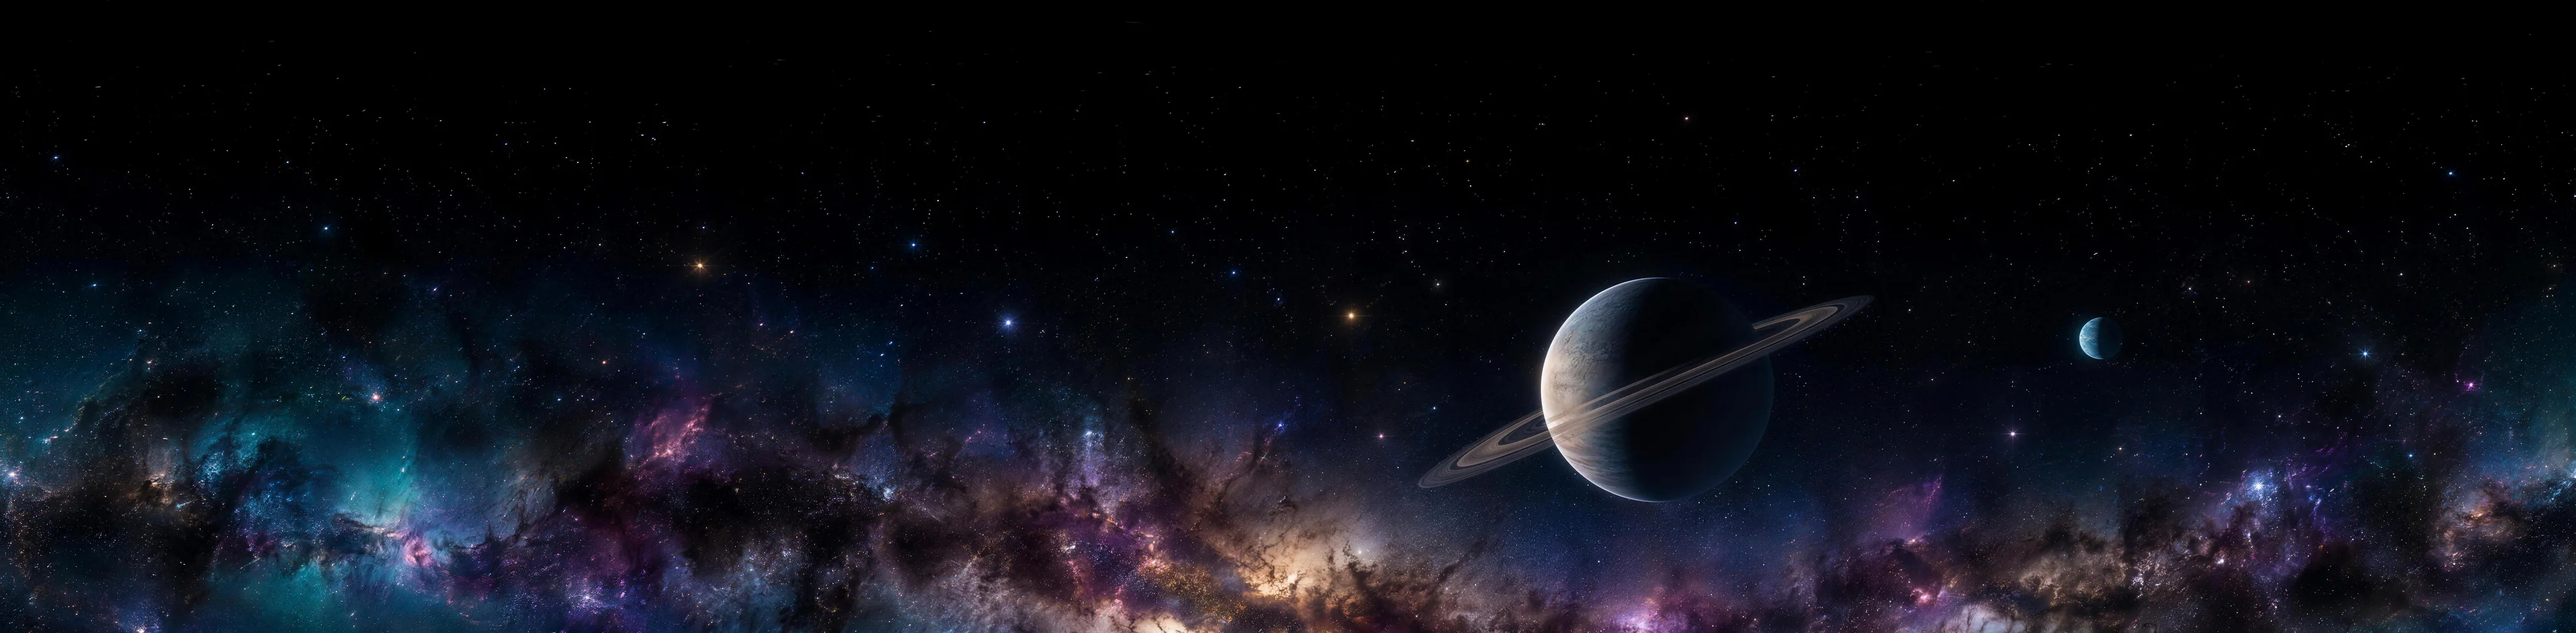
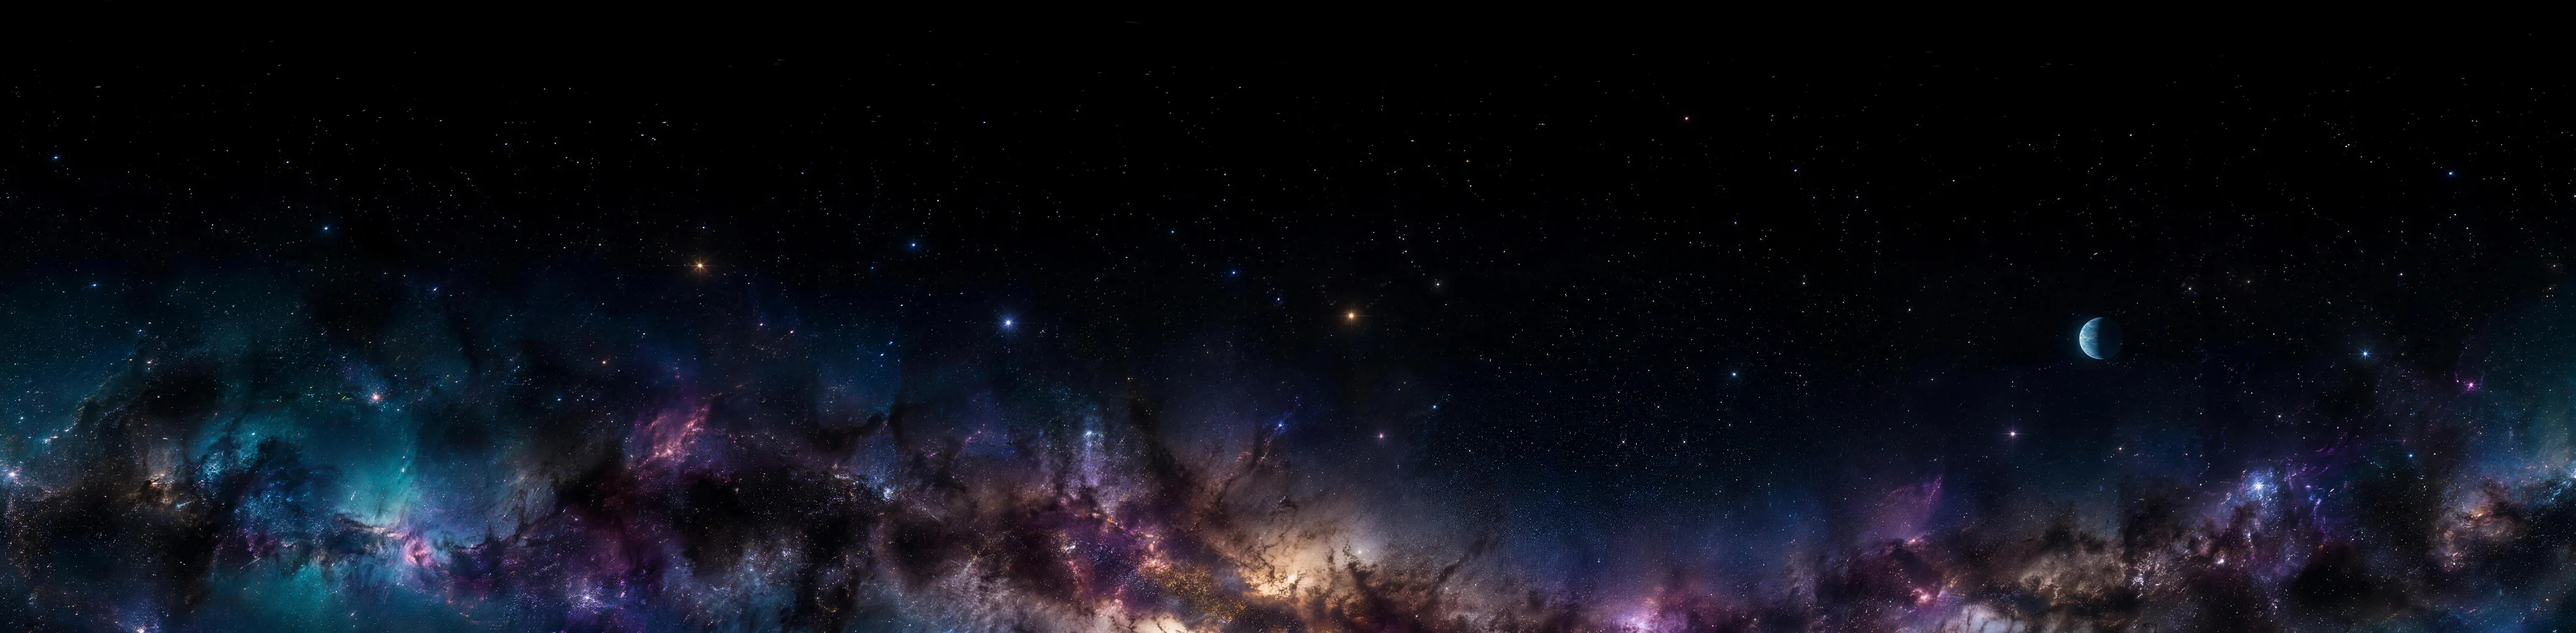
Road sky: the ringed planet is a real 3D body - a sphere of slowly turning cloud bands lit from one side with an atmosphere rim, its rings a flat disc that wraps behind it and takes its shadow - drifting a little against the stars as you travel; painted out of the panorama where it stood. Phones dra

Changed region(s): [[0.5312, 0.431, 0.75, 0.8004], [0.5625, 0.8004, 0.5938, 0.8312]]

diff --git a/src/components/adventure/sky-dome.tsx b/src/components/adventure/sky-dome.tsx
@@ -1,6 +1,6 @@
 "use client";
 
-import { useMemo, useRef } from "react";
+import { useEffect, useMemo, useRef } from "react";
 import { useFrame } from "@react-three/fiber";
 import * as THREE from "three";
 import { LOOK } from "./look";
@@ -285,7 +285,220 @@ export function SkyDome({
   });
   /* eslint-enable react-hooks/immutability */
   return (
-    // Drawn first and never in front of anything: the backdrop to it all.
-    <mesh ref={mesh} geometry={geo} material={material} renderOrder={-10} frustumCulled={false} />
+    // Drawn first and never in front of anything: the backdrop to it all
+    // - and, with the panorama, the planet standing in front of it.
+    <>
+      <mesh ref={mesh} geometry={geo} material={material} renderOrder={-10} frustumCulled={false} />
+      {!/\.[a-z]+$/i.test(image) && <GasGiant />}
+    </>
   );
 }
+
+// THE RINGED PLANET, as a body rather than a picture: a sphere of cloud
+// bands lit from one side - a soft day-and-night line, a thin bright
+// atmosphere round its rim - turning very slowly, and a flat disc of
+// rings round it, shadowed where the planet blocks the sun, hidden where
+// they pass behind it. It stands where the painted planet stood (painted
+// out of the panorama) and drifts a little against the stars as the
+// traveller moves - about a hundredth of the way - so it reads as a
+// thing out there in front of the sky, not part of it.
+const PLANET = {
+  // Where it is: bearing (0-1 round, the dome's u) and elevation (rad).
+  u: 0.2932,
+  elev: 0.466,
+  dist: 760,
+  // Its angular radius, as painted (radians).
+  ang: 0.286,
+  // How far the camera's travel carries it along (1 = fixed to the sky).
+  follow: 0.99,
+  // How far the rings tip across the view (rad, up to the right), and how
+  // far they are opened toward the viewer (rad; 0 is edge on).
+  tilt: 0.36,
+  open: 0.12,
+};
+
+const PLANET_VERT = /* glsl */ `
+  varying vec3 vN;
+  varying vec3 vW;
+  varying vec3 vLocal;
+  void main() {
+    vLocal = position;
+    vN = normalize(mat3(modelMatrix) * normal);
+    vec4 w = modelMatrix * vec4(position, 1.0);
+    vW = w.xyz;
+    gl_Position = projectionMatrix * viewMatrix * w;
+  }
+`;
+const PLANET_FRAG = /* glsl */ `
+  uniform vec3 uLight;
+  uniform float uTime;
+  uniform float uR;
+  varying vec3 vN;
+  varying vec3 vW;
+  varying vec3 vLocal;
+  float hash(vec2 p) { return fract(sin(dot(p, vec2(127.1, 311.7))) * 43758.5453); }
+  float noise(vec2 p) {
+    vec2 i = floor(p), f = fract(p);
+    vec2 u = f * f * (3.0 - 2.0 * f);
+    return mix(mix(hash(i), hash(i + vec2(1, 0)), u.x), mix(hash(i + vec2(0, 1)), hash(i + vec2(1, 1)), u.x), u.y);
+  }
+  float fbm(vec2 p) { float a = 0.5, s = 0.0; for (int i = 0; i < 5; i++) { s += a * noise(p); p *= 2.03; a *= 0.5; } return s; }
+  void main() {
+    vec3 n = normalize(vLocal);
+    float lat = n.y;
+    float lon = atan(n.x, n.z) + uTime * 0.004;
+    // Cloud bands, wavering where the bands shear past each other.
+    float warp = fbm(vec2(lon * 2.0, lat * 9.0)) * 0.35;
+    float band = sin((lat + warp * 0.12) * 26.0) * 0.5 + 0.5;
+    float fine = fbm(vec2(lon * 6.0, lat * 40.0 + warp * 4.0));
+    vec3 cream = vec3(0.86, 0.80, 0.68);
+    vec3 tan = vec3(0.58, 0.48, 0.38);
+    vec3 slate = vec3(0.42, 0.47, 0.54);
+    vec3 col = mix(tan, cream, band);
+    col = mix(col, slate, smoothstep(0.55, 0.8, fine) * 0.45 + smoothstep(0.6, 0.95, abs(lat)) * 0.5);
+    col *= 0.85 + 0.3 * fine;
+    // Lit from one side: a soft terminator, a little light wrapping round.
+    vec3 N = normalize(vN);
+    vec3 V = normalize(cameraPosition - vW);
+    float lit = smoothstep(-0.12, 0.45, dot(N, uLight));
+    float rim = pow(1.0 - max(dot(N, V), 0.0), 3.0);
+    vec3 c = col * (0.015 + 1.05 * lit);
+    // The atmosphere: a thin glow round the edge, brightest on the lit side.
+    c += vec3(0.55, 0.7, 1.0) * rim * (0.08 + 0.75 * lit);
+    gl_FragColor = vec4(c, 1.0);
+  }
+`;
+
+const RING_VERT2 = /* glsl */ `
+  varying vec3 vW;
+  varying float vR;
+  void main() {
+    vR = length(position.xy);
+    vec4 w = modelMatrix * vec4(position, 1.0);
+    vW = w.xyz;
+    gl_Position = projectionMatrix * viewMatrix * w;
+  }
+`;
+const RING_FRAG2 = /* glsl */ `
+  uniform vec3 uLight;
+  uniform vec3 uCentre;
+  uniform float uR;
+  uniform float uInner;
+  uniform float uOuter;
+  varying vec3 vW;
+  varying float vR;
+  float hash(float x) { return fract(sin(x * 127.1) * 43758.5453); }
+  void main() {
+    // Behind the planet, as seen from here: not drawn.
+    vec3 toP = vW - cameraPosition;
+    float lenP = length(toP);
+    vec3 dir = toP / lenP;
+    vec3 oc = cameraPosition - uCentre;
+    float b = dot(oc, dir);
+    float c = dot(oc, oc) - uR * uR;
+    float h = b * b - c;
+    if (h > 0.0) {
+      float t = -b - sqrt(h);
+      if (t > 0.0 && t < lenP) discard;
+    }
+    // The rings themselves: many fine rings of differing density, a
+    // dark gap (the Cassini division) two-thirds of the way out.
+    float r = (vR - uInner) / (uOuter - uInner);
+    float k = floor(r * 160.0);
+    float dens = 0.35 + 0.65 * hash(k) * hash(k * 0.37 + 2.0);
+    dens *= 1.0 - smoothstep(0.6, 0.63, r) * (1.0 - smoothstep(0.66, 0.69, r)) * 0.9;
+    dens *= smoothstep(0.0, 0.05, r) * (1.0 - smoothstep(0.92, 1.0, r));
+    vec3 col = mix(vec3(0.62, 0.55, 0.46), vec3(0.88, 0.83, 0.74), hash(k * 1.7));
+    // In the planet's shadow?
+    vec3 pc = vW - uCentre;
+    float along = dot(pc, uLight);
+    float off = length(pc - along * uLight);
+    float shade = (along < 0.0 && off < uR) ? 0.08 : 1.0;
+    gl_FragColor = vec4(col * (0.15 + 0.9 * shade), dens * 0.85);
+  }
+`;
+
+function GasGiant() {
+  const { group, planetMat, ringMat } = useMemo(() => {
+    const R = PLANET.dist * Math.tan(PLANET.ang);
+    const planetMat = new THREE.ShaderMaterial({
+      vertexShader: PLANET_VERT,
+      fragmentShader: PLANET_FRAG,
+      uniforms: { uLight: { value: new THREE.Vector3() }, uTime: { value: 0 }, uR: { value: R } },
+      depthTest: false,
+      depthWrite: false,
+      fog: false,
+      toneMapped: false,
+    });
+    const inner = R * 1.32;
+    const outer = R * 2.25;
+    const ringMat = new THREE.ShaderMaterial({
+      vertexShader: RING_VERT2,
+      fragmentShader: RING_FRAG2,
+      uniforms: {
+        uLight: { value: new THREE.Vector3() },
+        uCentre: { value: new THREE.Vector3() },
+        uR: { value: R },
+        uInner: { value: inner },
+        uOuter: { value: outer },
+      },
+      transparent: true,
+      // (Transparent things draw after the solid scene - so the rings test
+      // depth, or they'd paint over the towers and the land.)
+      depthTest: true,
+      depthWrite: false,
+      side: THREE.DoubleSide,
+      fog: false,
+      toneMapped: false,
+    });
+    const group = new THREE.Group();
+    const sphere = new THREE.Mesh(new THREE.SphereGeometry(R, 96, 64), planetMat);
+    sphere.renderOrder = -9;
+    sphere.frustumCulled = false;
+    const ring = new THREE.Mesh(new THREE.RingGeometry(inner, outer, 192, 1), ringMat);
+    // The ring lies in the planet's equator.
+    ring.rotation.x = -Math.PI / 2;
+    ring.renderOrder = -8;
+    ring.frustumCulled = false;
+    group.add(sphere, ring);
+    return { group, planetMat, ringMat };
+  }, []);
+  useEffect(
+    () => () => {
+      group.traverse((o) => {
+        if (o instanceof THREE.Mesh) {
+          o.geometry.dispose();
+          (o.material as THREE.Material).dispose();
+        }
+      });
+    },
+    [group],
+  );
+  const dir = useMemo(() => {
+    const th = PLANET.u * Math.PI * 2;
+    const ce = Math.cos(PLANET.elev);
+    return new THREE.Vector3(Math.sin(th) * ce, Math.sin(PLANET.elev), Math.cos(th) * ce);
+  }, []);
+  const tmp = useMemo(() => ({ left: new THREE.Vector3(), up: new THREE.Vector3(0, 1, 0) }), []);
+  /* eslint-disable react-hooks/immutability -- a body in the sky, placed every frame */
+  useFrame(({ camera, clock }) => {
+    // Carried along with the camera almost all the way - not quite.
+    group.position.copy(camera.position).multiplyScalar(PLANET.follow).addScaledVector(dir, PLANET.dist);
+    // Facing the viewer; the rings tipped up to the right across the
+    // view, and opened only a little - nearly edge on, as painted.
+    group.lookAt(camera.position);
+    group.rotateZ(PLANET.tilt);
+    group.rotateX(PLANET.open);
+    // The sun off to the viewer's left of it, and a little behind them,
+    // as in the painting.
+    tmp.left.crossVectors(tmp.up, dir).normalize();
+    const L = planetMat.uniforms.uLight.value as THREE.Vector3;
+    L.copy(tmp.left).multiplyScalar(0.92).addScaledVector(dir, -0.35).addScaledVector(tmp.up, 0.18).normalize();
+    (ringMat.uniforms.uLight.value as THREE.Vector3).copy(L);
+    (ringMat.uniforms.uCentre.value as THREE.Vector3).copy(group.position);
+    planetMat.uniforms.uTime.value = clock.elapsedTime;
+  });
+  /* eslint-enable react-hooks/immutability */
+  return <primitive object={group} />;
+}
+

diff --git a/src/components/adventure/adventure-world.tsx b/src/components/adventure/adventure-world.tsx
@@ -1252,10 +1252,10 @@ function AdventureWorldInner({
       // student's photo included. The glow comes from the bloom, not the
       // grade, so photos show as uploaded and the neon stays pure.
       flat
-      // (On a phone, one pixel per pixel: the bloom and the blur each keep
-      // copies of the frame, and a sharper frame is several times the
-      // memory - what was running phones out of it near the end.)
-      dpr={typeof window !== "undefined" && window.matchMedia("(pointer: fine)").matches ? [1, 1.75] : [1, 1]}
+      // (On a phone, 1.4 pixels to the point: at 1 the whole view - the sky
+      // above all - drew soft on a sharp screen; much past this the bloom's
+      // and blur's copies of the frame cost memory a phone runs short of.)
+      dpr={typeof window !== "undefined" && window.matchMedia("(pointer: fine)").matches ? [1, 1.75] : [1, 1.4]}
       frameloop={active ? "always" : "never"}
       gl={{ antialias: true, powerPreference: "high-performance" }}
       camera={{ fov: 62, near: 0.1, far: 1200, position: [0, 3, 6] }}
